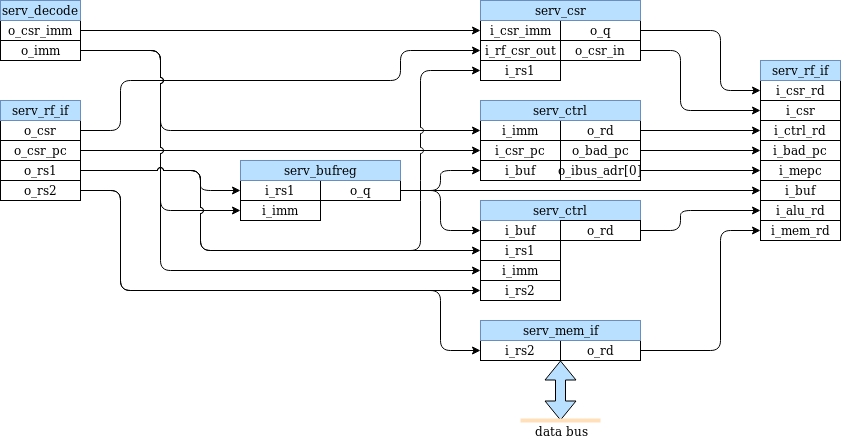
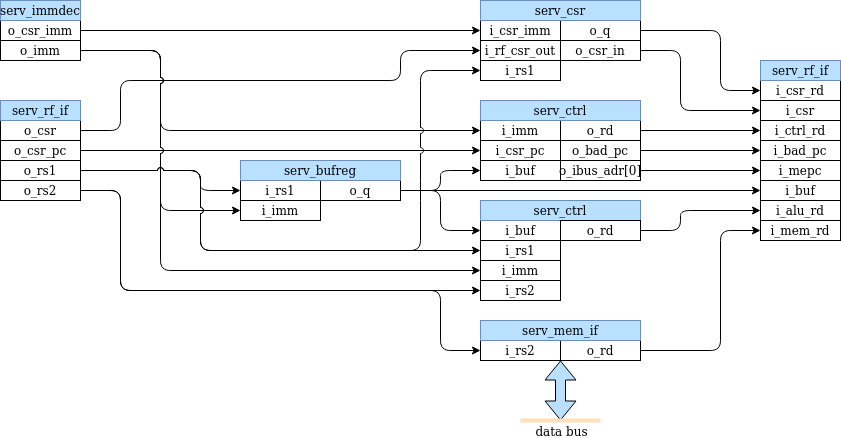
Add schematic for serv_decode

diff --git a/doc/index.rst b/doc/index.rst
@@ -91,7 +91,9 @@ serv_decode
 
 .. image:: serv_decode.png
 
-serv_decode is responsible for decoding the operation word coming from ibus into a set of control signals that are used internally in SERV. It also assembles the 32-bit immediate used by some instructions. During the life cycle of an operation all control signals (except one) are static and the immediate is streamed out during the first run stage
+serv_decode is responsible for decoding the operation word coming from ibus into a set of control signals that are used internally in SERV.
+
+.. image:: serv_decode_int.png
 
 serv_mem_if
 ^^^^^^^^^^^